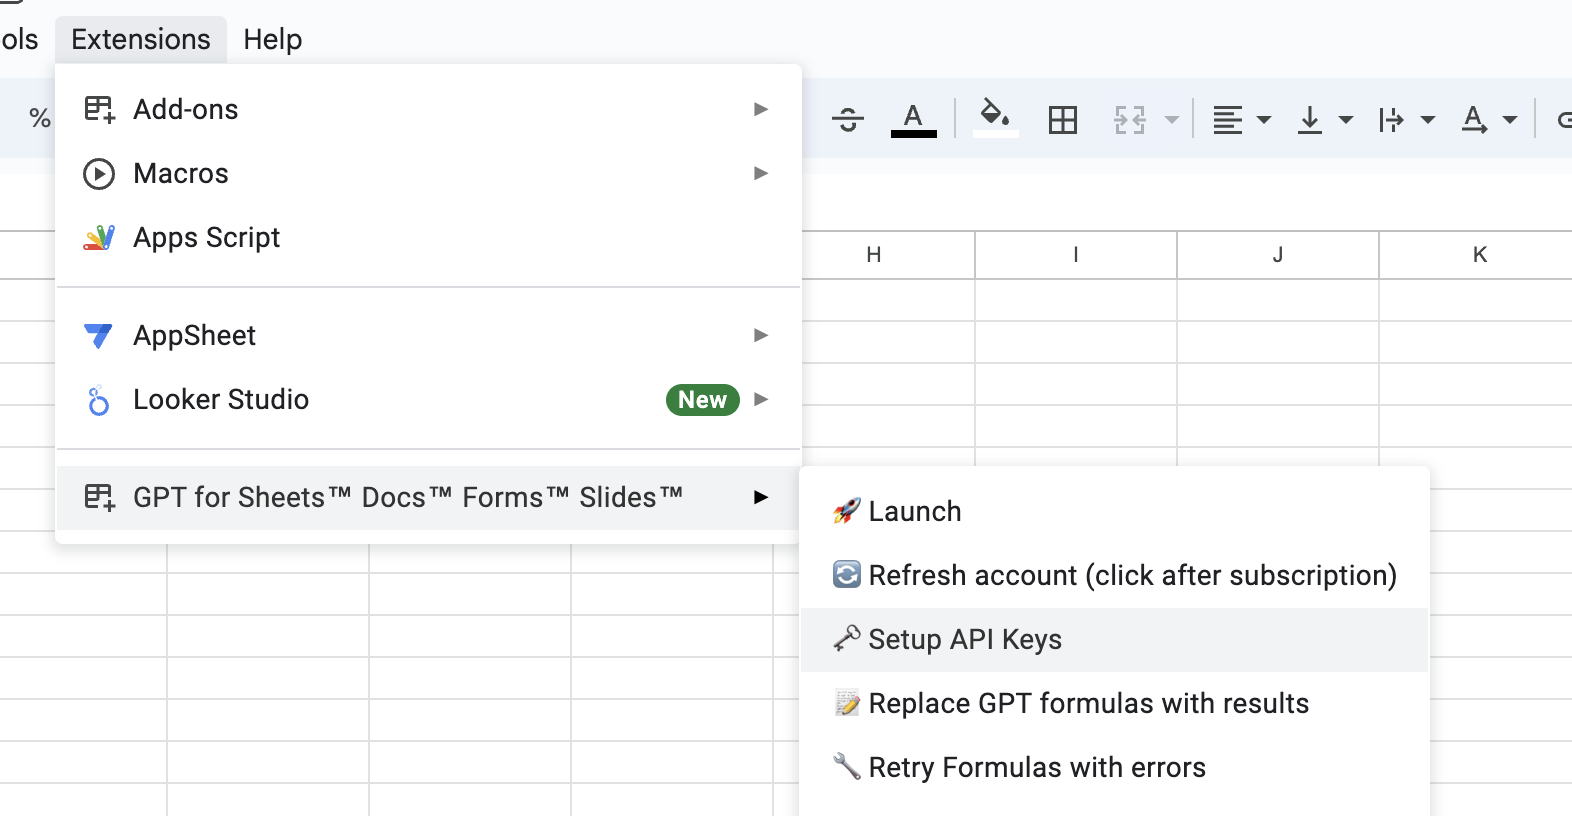
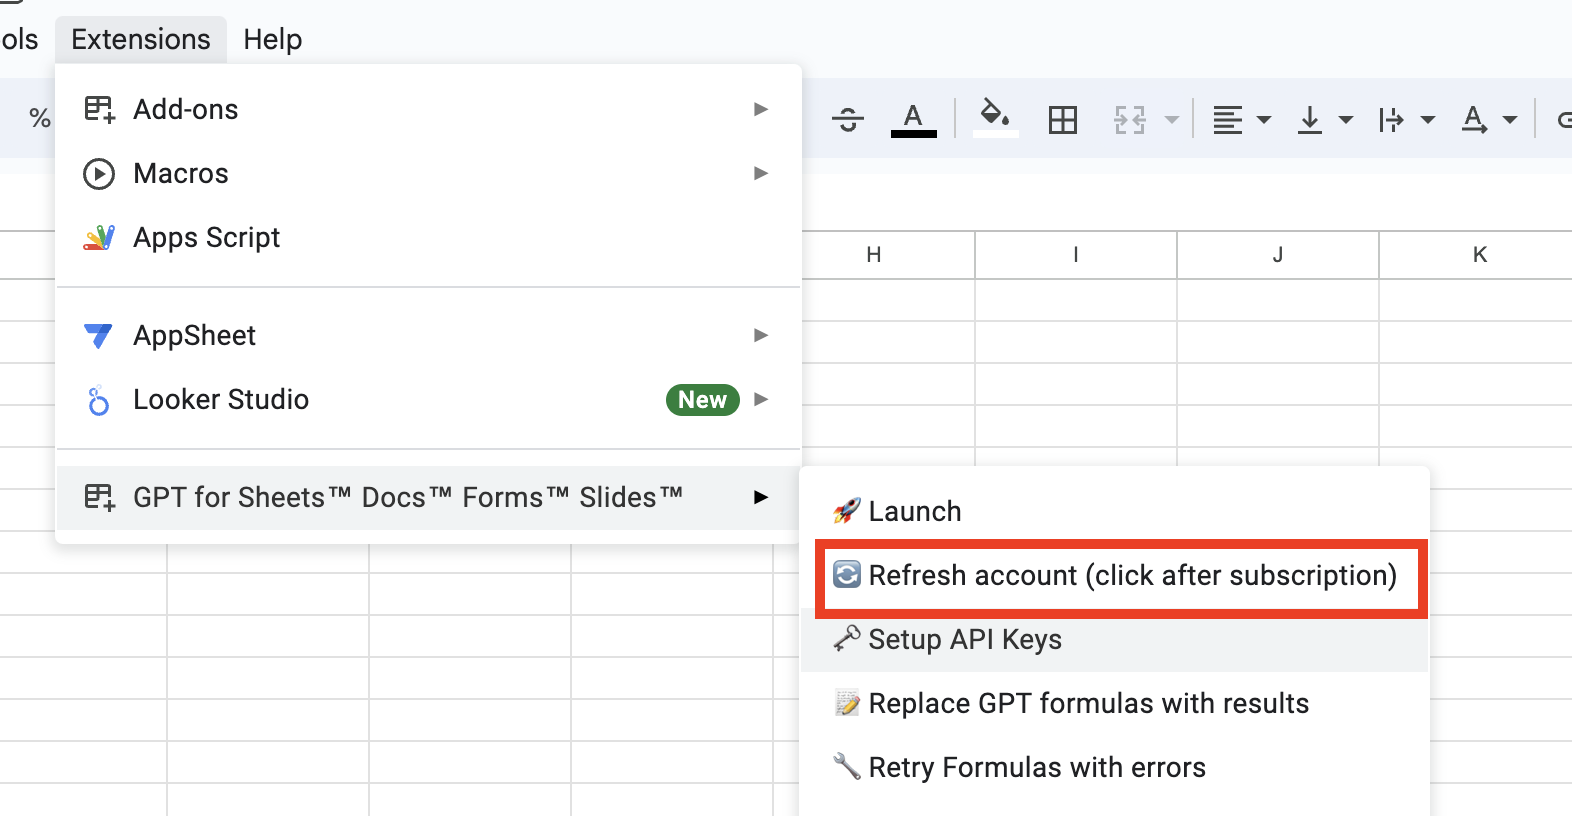
update instuctions

Changed region(s): [[0.4987, 0.6434, 0.9351, 0.7659]]

diff --git a/docs/gpt-for-sheets-set-up-openai-api-keys.md b/docs/gpt-for-sheets-set-up-openai-api-keys.md
@@ -10,9 +10,12 @@ description: How to set up OpenAI API keys
 # How to set up OpenAI, Claude, Gemini, and Mistral API keys - <a href="/gpt-for-sheets/" target="_blank">GPT for Google Sheets</a>
 
 ### Before you have started
-- Install <a href="https://workspace.google.com/marketplace/app/gpt_for_docs_sheets_forms_slides/466607203252" target="_blank">GPT for Sheets Add-On</a>
-- <a href="/gpt-for-sheets/" target="_blank">Upgrade subscription to Pro User plan</a>
-- RECOMMENDATION: The best way to ensure optimal performance with Google Add-Ons is by using **a separated Google Chrome Profile for your single gmail account!** (sometimes, Google API does not work well with multiple accounts in the same Chrome profile) This helps bypass any potential issues that may arise from compatibility with other browsers.
+1. Install <a href="https://workspace.google.com/marketplace/app/gpt_for_docs_sheets_forms_slides/466607203252" target="_blank">GPT for Sheets Add-On</a>
+2. <a href="/gpt-for-sheets/" target="_blank">Upgrade subscription to Pro User plan</a>
+3. Please click on the 'Refresh Account' button located: Extensions > GPT for Sheets, Docs, Slides, Forms > Refresh Account
+4. Follow the instructions below to set up your OpenAI key. (<a href="https://platform.openai.com/api-keys" rel="nofollow" target="_blank">Your API Keys</a>)
+5. Make sure you have at least 1$ on your Open AI Billing account: <a href="https://platform.openai.com/account/billing/overview" rel="nofollow" target="_blank">Billing for OpenAI Account</a>
+6. RECOMMENDATION: The best way to ensure optimal performance with Google Add-Ons is by using **a separated Google Chrome Profile for your single gmail account!** (sometimes, Google API does not work well with multiple accounts in the same Chrome profile) This helps bypass any potential issues that may arise from compatibility with other browsers.
 
 ### !!! After subscribing or changing your plan, please click on the 'Refresh Account' button located: Extensions > GPT for Sheets, Docs, Slides, Forms > Refresh Account
 ![refresh-account.png]({{ site.baseurl }}/images/setup-api-keys-1.png){: width="600"}
@@ -49,7 +52,7 @@ description: How to set up OpenAI API keys
 #### 7. Click on 'Refresh account': Extensions > GPT for Sheets, Docs, Slides, Forms > Refresh Account
 ![refresh-account.png]({{ site.baseurl }}/images/setup-api-keys-1.png){: width="600"}
 #### 8. Click on 'Set Up OpenAI Key': Extensions > GPT for Sheets, Docs, Slides, Forms > Refresh Account
-![refresh-account.png]({{ site.baseurl }}/images/setup-api-keys-1.png){: width="600"}
+![refresh-account.png]({{ site.baseurl }}/images/setup-api-keys-2.png){: width="600"}
 #### 9. Paste your OpenAI API key where indicated, and click 'Check' button
 ![check-and-save-api-key.png]({{ site.baseurl }}/images/check-and-save-api-key.png){: width="600"}
 #### 10. Click on 'Save' button
